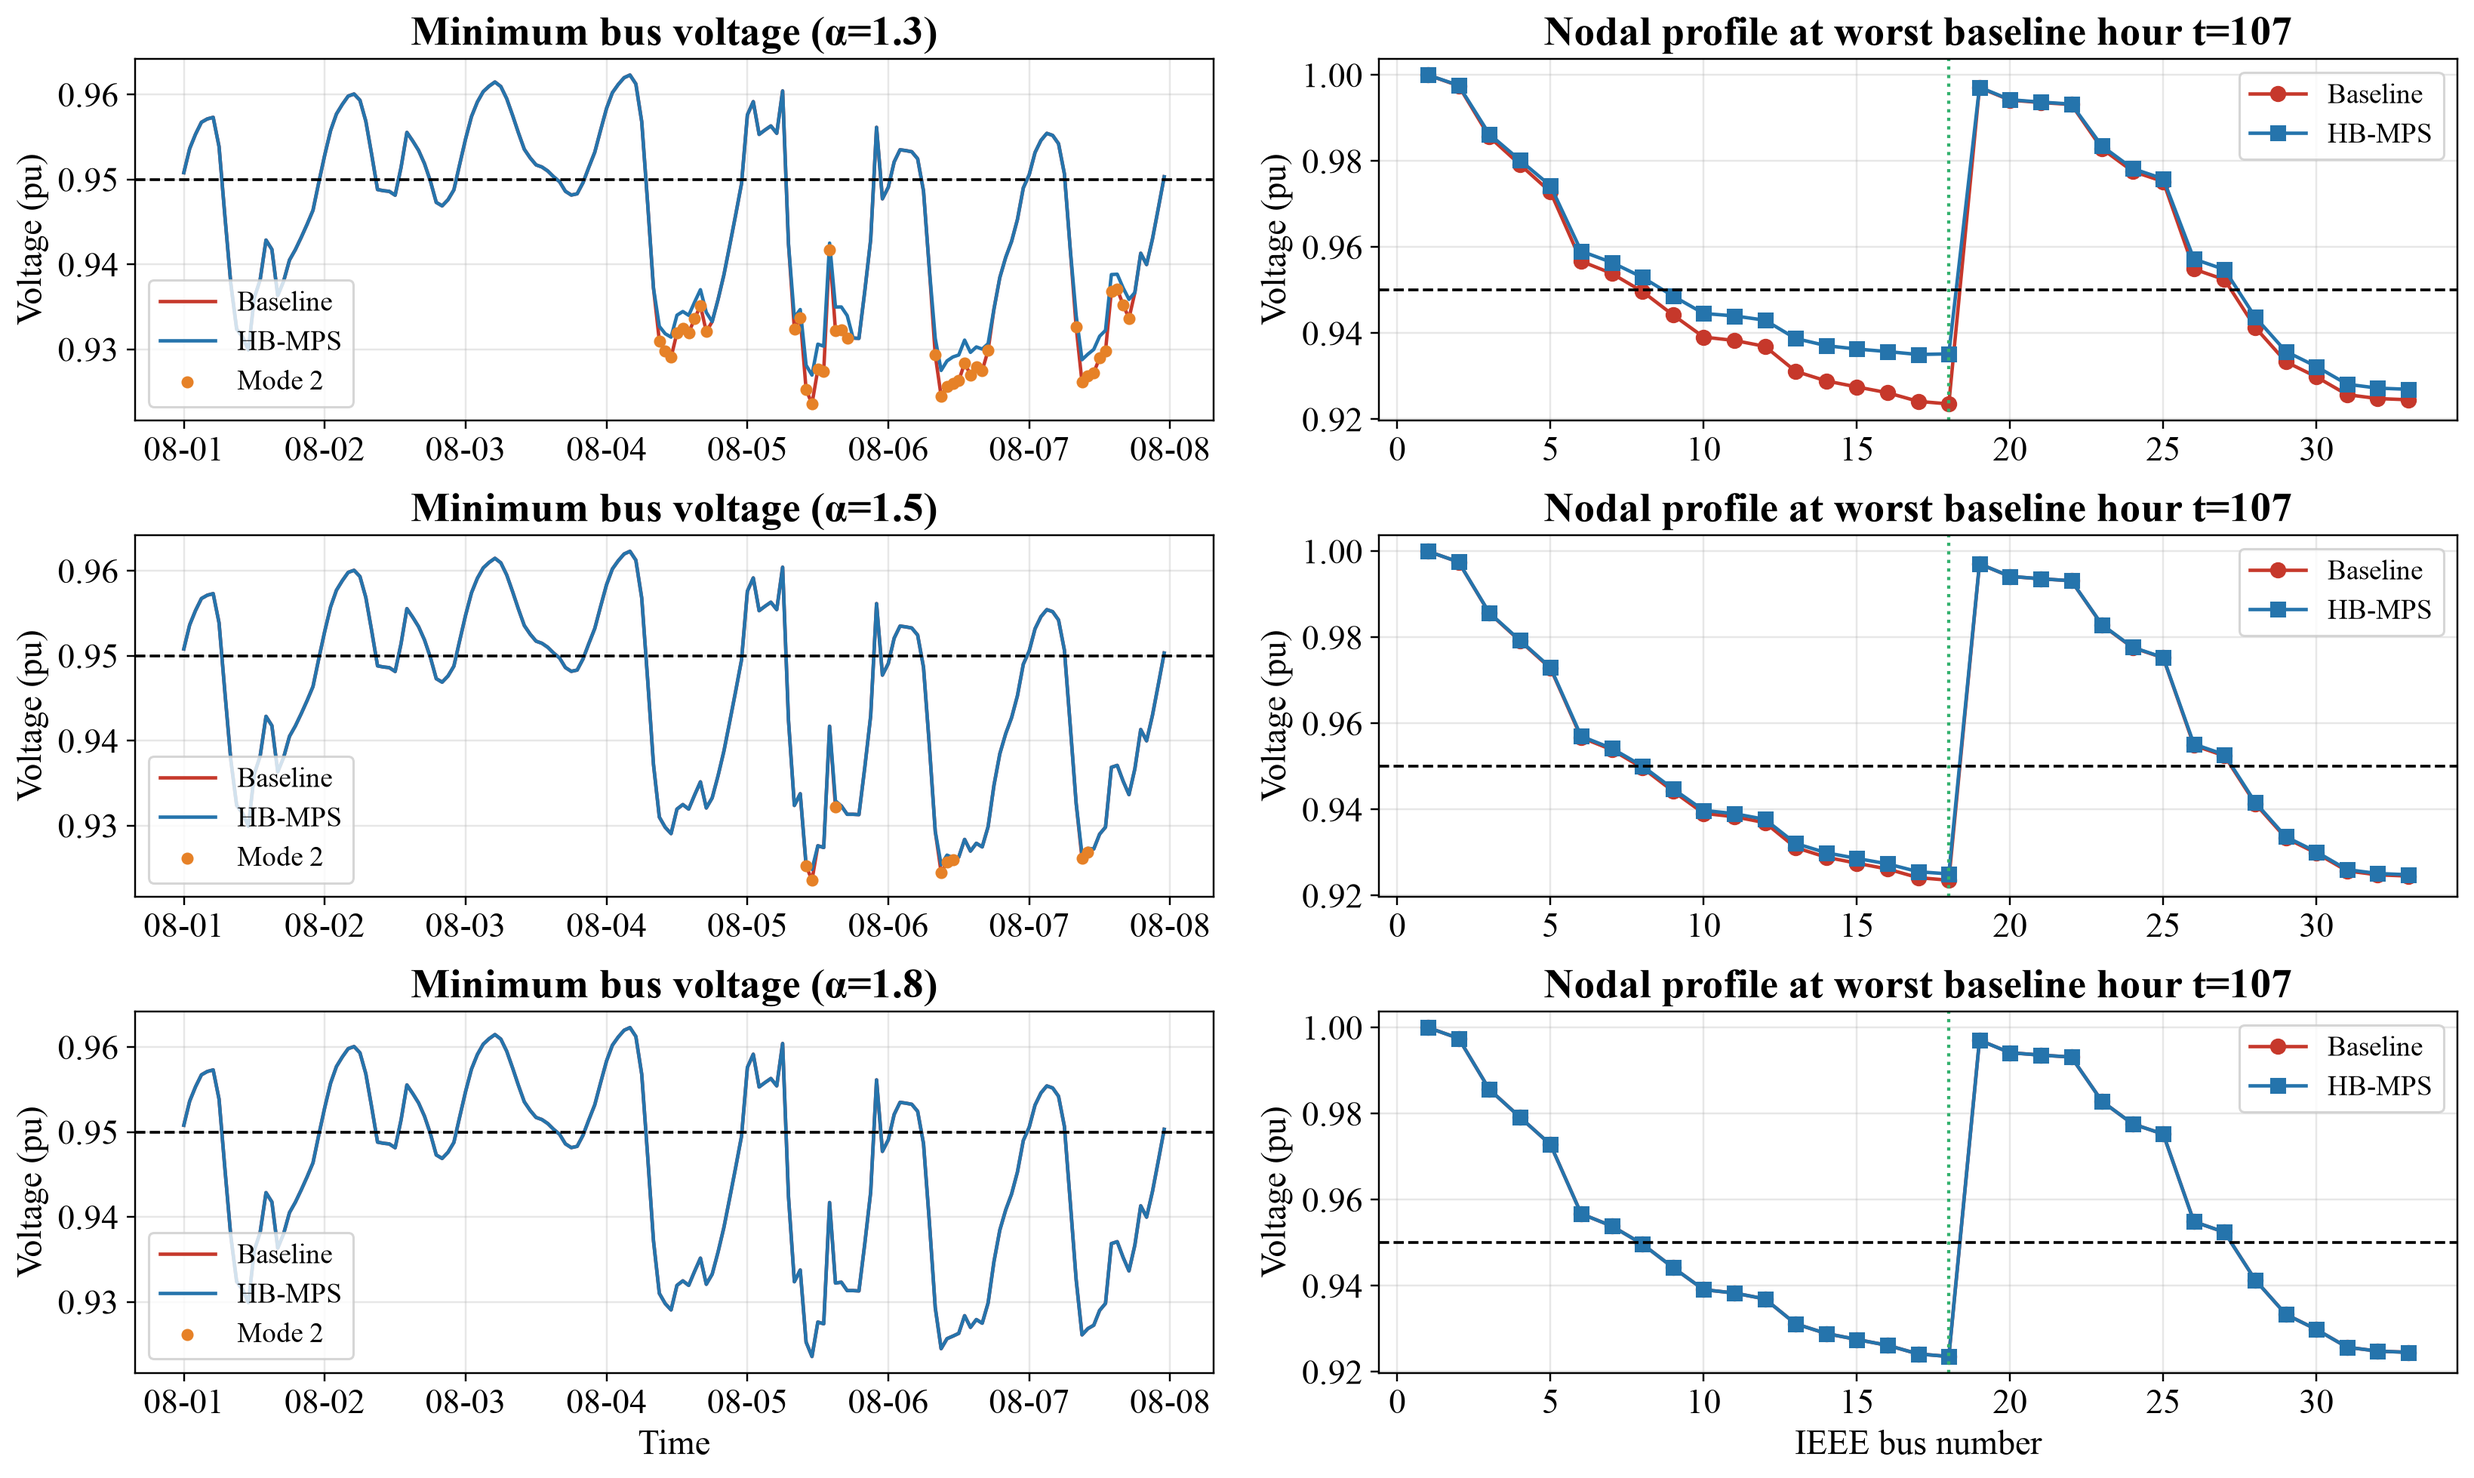
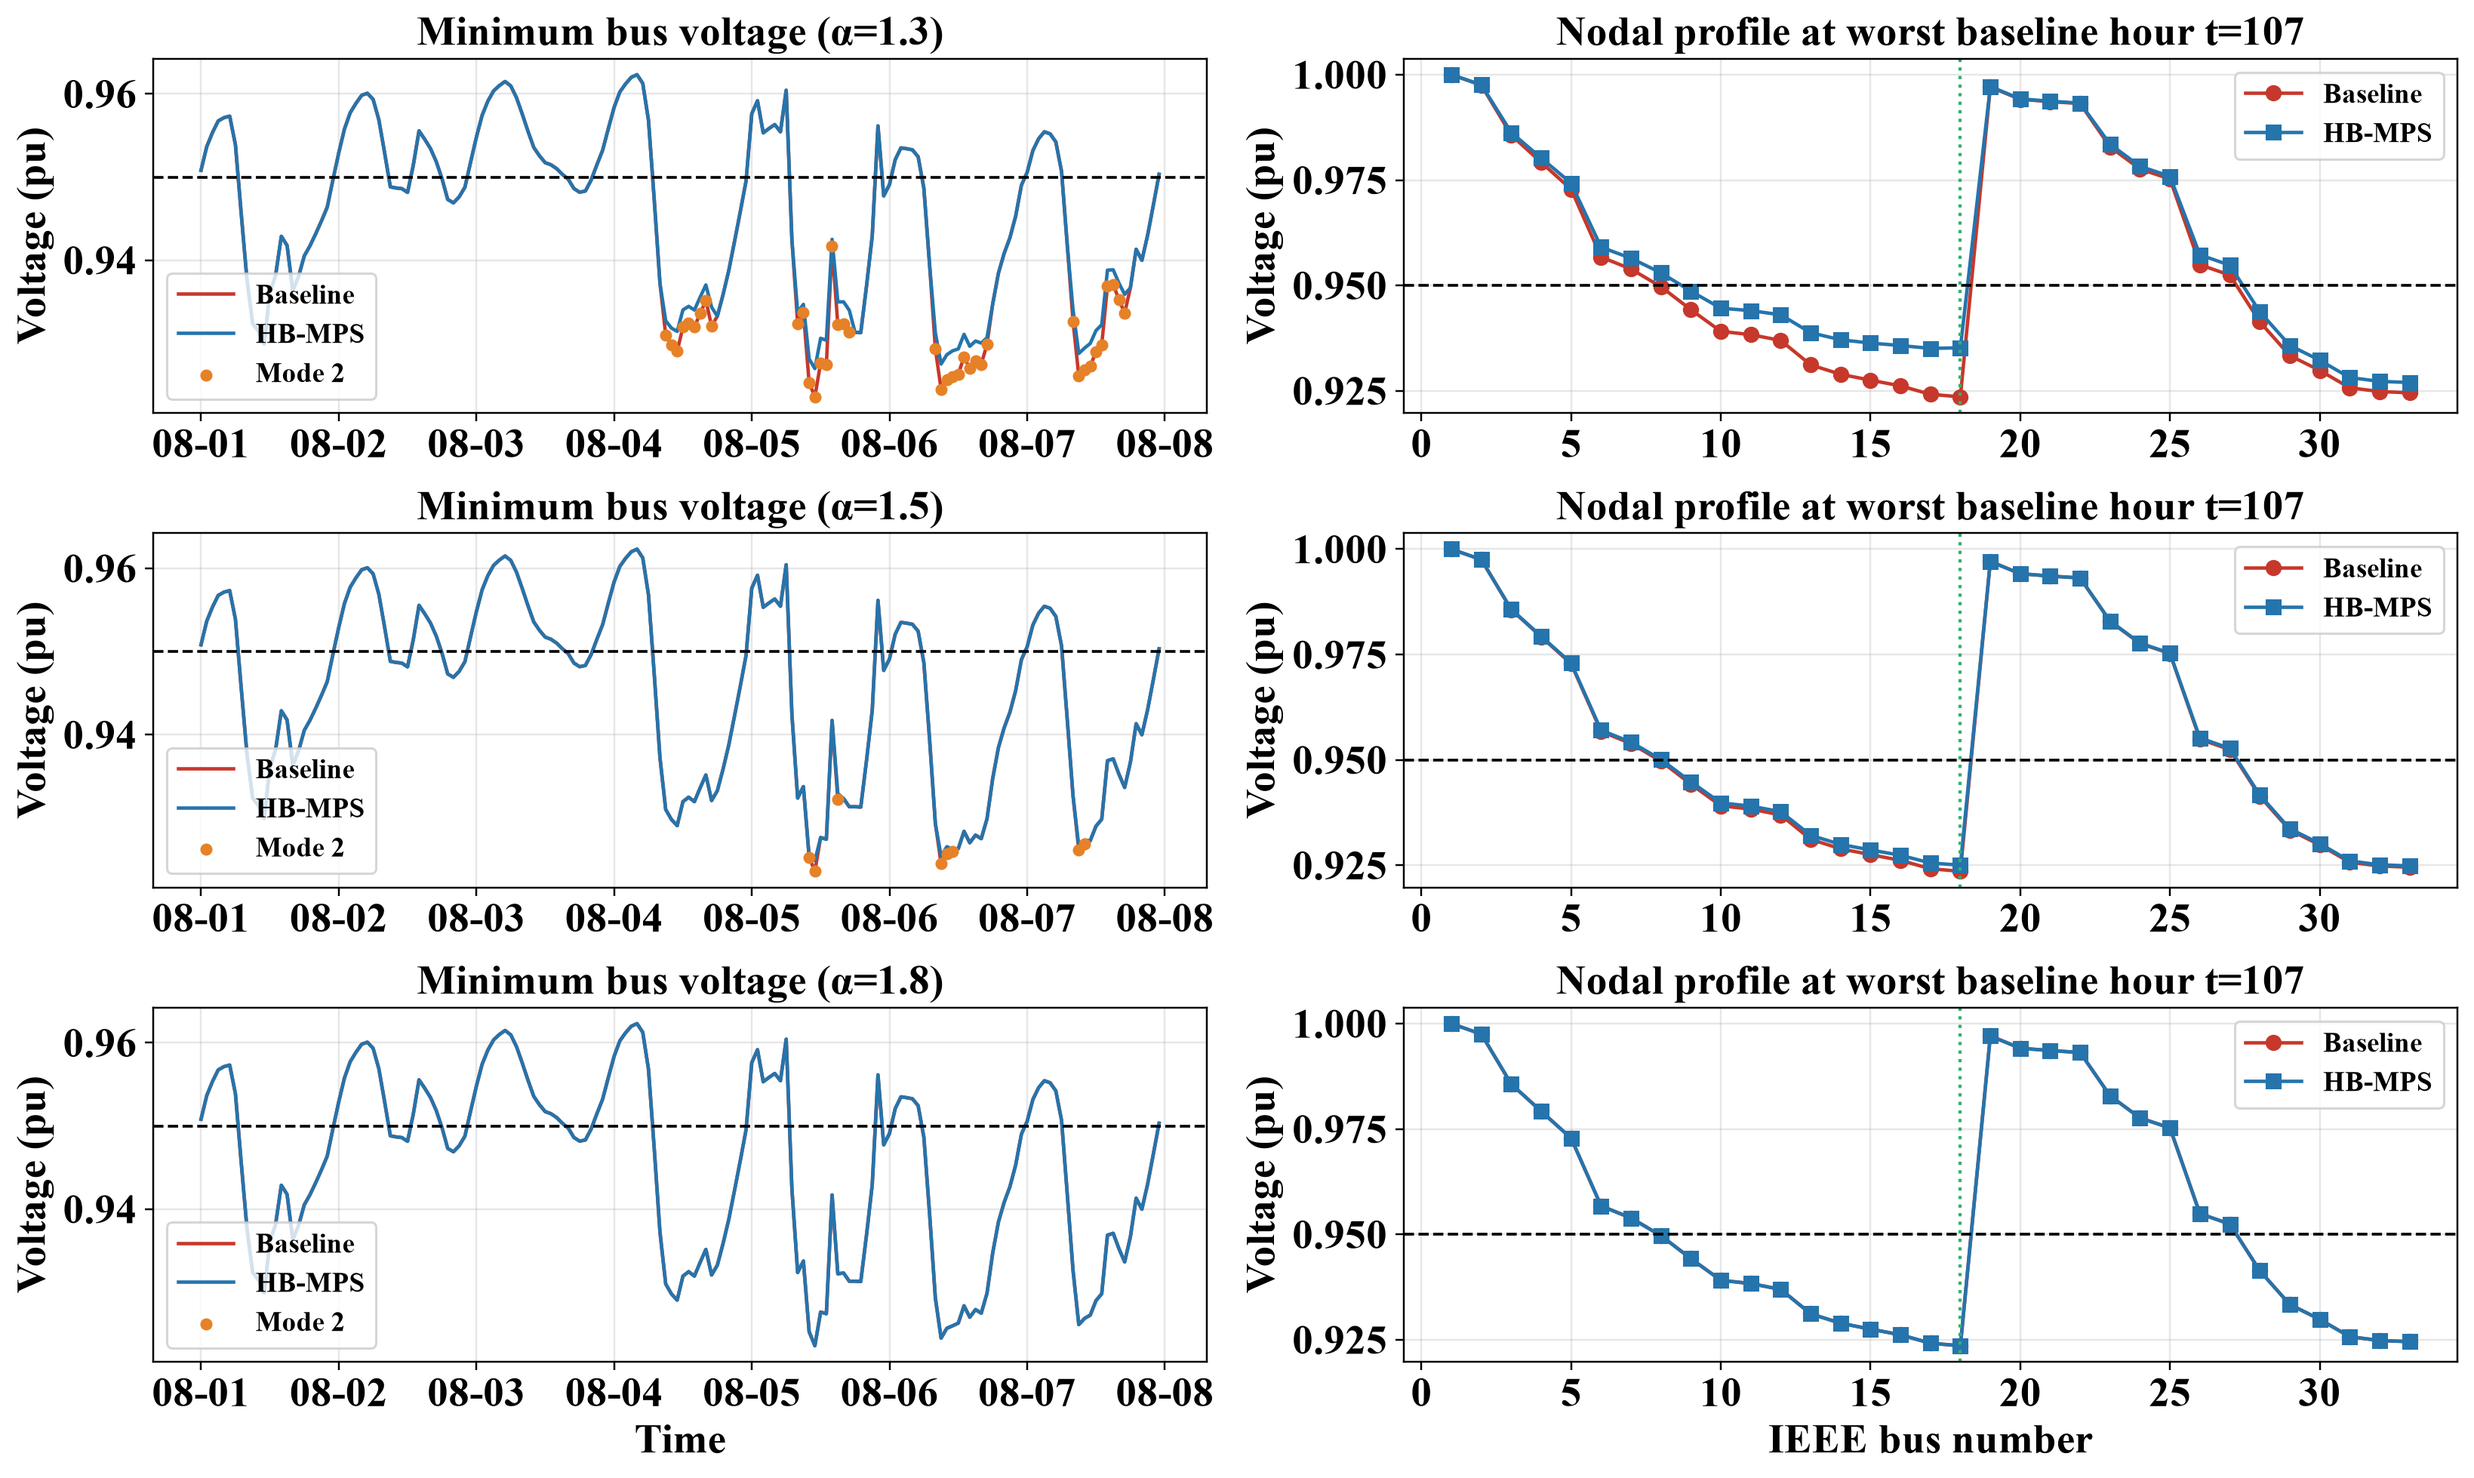
Unify power-flow figure typography

diff --git a/powerflow_plot.py b/powerflow_plot.py
@@ -14,10 +14,13 @@ import matplotlib.pyplot as plt
 plt.rcParams.update(
     {
         "font.family": "Times New Roman",
+        "font.weight": "bold",
         "axes.titlesize": 18,
-        "axes.labelsize": 15,
-        "xtick.labelsize": 15,
-        "ytick.labelsize": 15,
+        "axes.titleweight": "bold",
+        "axes.labelsize": 18,
+        "axes.labelweight": "bold",
+        "xtick.labelsize": 18,
+        "ytick.labelsize": 18,
         "legend.fontsize": 12,
     }
 )
